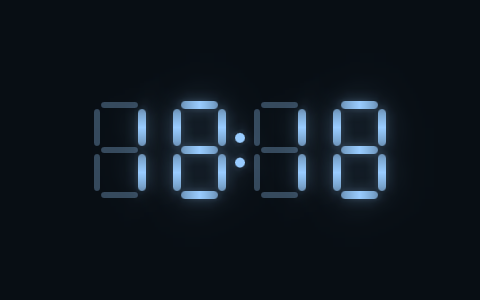
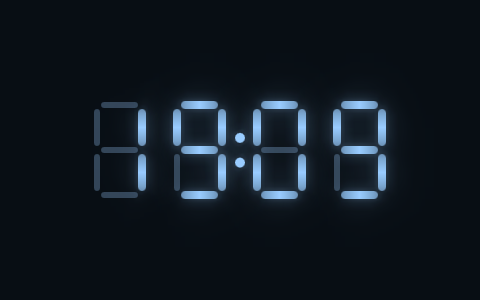
W265: a stroke weight below the pixel grid acts as COVERAGE: SegmentChar draws an unlit stroke at its snapped even width t (>= 2 px, the W57 mirror-symmetry grid) with opacity scaled by thick / t, the area it stands for (lit never dims, a stroke at or above the grid is unchanged), so at panel size t
post-commit advisory (auto-captured):
    ── post-commit advisory (non-blocking; gates ran pre-commit) ──
      Δ adequacy: not run per commit — run it as a capped service:
      PAPERKIT_SCRATCH=/var/tmp/paperkit-sweep python3 scripts/worklist_gate.py --discriminate
    opa_gate: partial: admitted — 0 deny, 0 withheld, 8 admitted

Changed region(s): [[0.5, 0.3, 0.625, 0.69], [0.3438, 0.51, 0.4062, 0.66], [0.6875, 0.51, 0.7188, 0.66]]

diff --git a/catalog/baselines/SegmentChar.qml b/catalog/baselines/SegmentChar.qml
@@ -111,7 +111,7 @@ Item {
             // so without this the slider's zero end still drew a 2 px ghost (W263, measured at 48 px)
             visible: sc.showGhost && !sc.isOn(modelData) && sc.strokeGhost > 0
             color: sc.ghostColor
-            opacity: sc.ghostAlpha * sc.glow
+            opacity: sc.ghostAlpha * sc.glow * coverage
             thick: sc.strokeGhost
         }
     }
@@ -192,6 +192,12 @@ Item {
         // verticals only when the stroke is an EVEN integer and the gap an integer,
         // so both are snapped here; the substrate's ratios stay the target.
         property real t: 2 * Math.max(1, Math.round(thick / 2))
+        // ⚑ A WEIGHT BELOW THE GRID ACTS AS COVERAGE (W265). t is an even integer of at least 2 px, so a
+        // requested stroke thinner than t (the ghost at 0.4 x a 2 px base = 0.8 px) would otherwise draw
+        // at t and the weight would do nothing. Perceived brightness is luminance x AREA, so the thin
+        // stroke is drawn at t with its opacity scaled by thick / t - the area it stands for. Lit
+        // strokes never dim (coverage 1); a stroke at or above the grid is unchanged (thick / t >= 1).
+        property real coverage: lit ? 1.0 : Math.min(1.0, thick / t)
         property real gap: Math.round(sc.segThick * 0.62)
         antialiasing: true
         radius: t / 2

diff --git a/plasma-clock/org.el.segclock/contents/ui/SegmentChar.qml b/plasma-clock/org.el.segclock/contents/ui/SegmentChar.qml
@@ -111,7 +111,7 @@ Item {
             // so without this the slider's zero end still drew a 2 px ghost (W263, measured at 48 px)
             visible: sc.showGhost && !sc.isOn(modelData) && sc.strokeGhost > 0
             color: sc.ghostColor
-            opacity: sc.ghostAlpha * sc.glow
+            opacity: sc.ghostAlpha * sc.glow * coverage
             thick: sc.strokeGhost
         }
     }
@@ -192,6 +192,12 @@ Item {
         // verticals only when the stroke is an EVEN integer and the gap an integer,
         // so both are snapped here; the substrate's ratios stay the target.
         property real t: 2 * Math.max(1, Math.round(thick / 2))
+        // ⚑ A WEIGHT BELOW THE GRID ACTS AS COVERAGE (W265). t is an even integer of at least 2 px, so a
+        // requested stroke thinner than t (the ghost at 0.4 x a 2 px base = 0.8 px) would otherwise draw
+        // at t and the weight would do nothing. Perceived brightness is luminance x AREA, so the thin
+        // stroke is drawn at t with its opacity scaled by thick / t - the area it stands for. Lit
+        // strokes never dim (coverage 1); a stroke at or above the grid is unchanged (thick / t >= 1).
+        property real coverage: lit ? 1.0 : Math.min(1.0, thick / t)
         property real gap: Math.round(sc.segThick * 0.62)
         antialiasing: true
         radius: t / 2

diff --git a/templates/SegmentChar.qml b/templates/SegmentChar.qml
@@ -111,7 +111,7 @@ Item {
             // so without this the slider's zero end still drew a 2 px ghost (W263, measured at 48 px)
             visible: sc.showGhost && !sc.isOn(modelData) && sc.strokeGhost > 0
             color: sc.ghostColor
-            opacity: sc.ghostAlpha * sc.glow
+            opacity: sc.ghostAlpha * sc.glow * coverage
             thick: sc.strokeGhost
         }
     }
@@ -192,6 +192,12 @@ Item {
         // verticals only when the stroke is an EVEN integer and the gap an integer,
         // so both are snapped here; the substrate's ratios stay the target.
         property real t: 2 * Math.max(1, Math.round(thick / 2))
+        // ⚑ A WEIGHT BELOW THE GRID ACTS AS COVERAGE (W265). t is an even integer of at least 2 px, so a
+        // requested stroke thinner than t (the ghost at 0.4 x a 2 px base = 0.8 px) would otherwise draw
+        // at t and the weight would do nothing. Perceived brightness is luminance x AREA, so the thin
+        // stroke is drawn at t with its opacity scaled by thick / t - the area it stands for. Lit
+        // strokes never dim (coverage 1); a stroke at or above the grid is unchanged (thick / t >= 1).
+        property real coverage: lit ? 1.0 : Math.min(1.0, thick / t)
         property real gap: Math.round(sc.segThick * 0.62)
         antialiasing: true
         radius: t / 2
